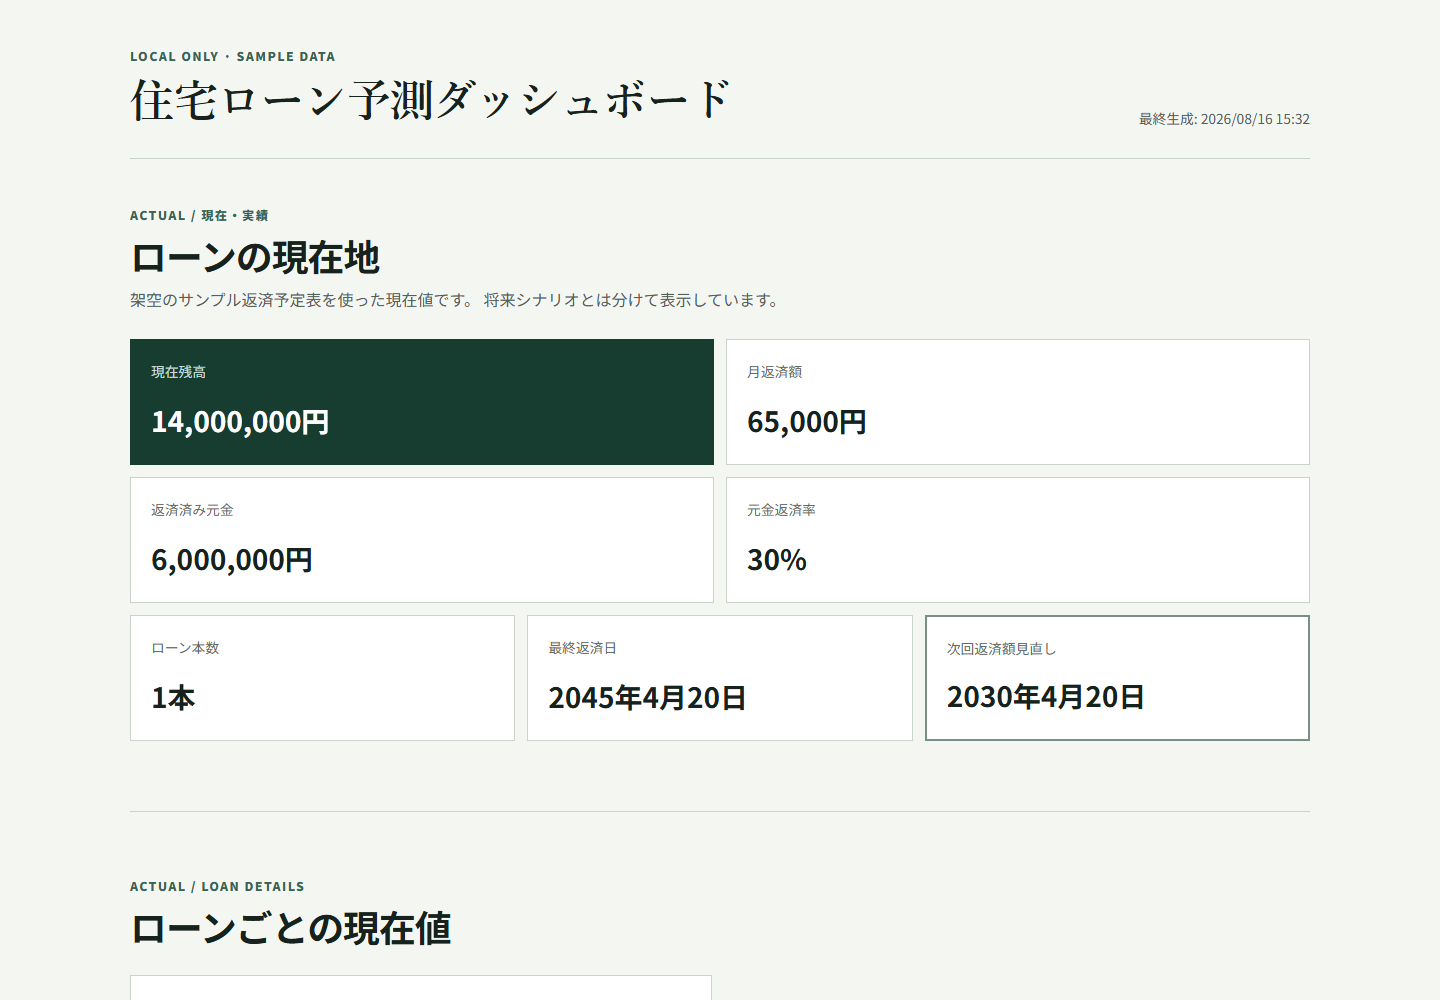
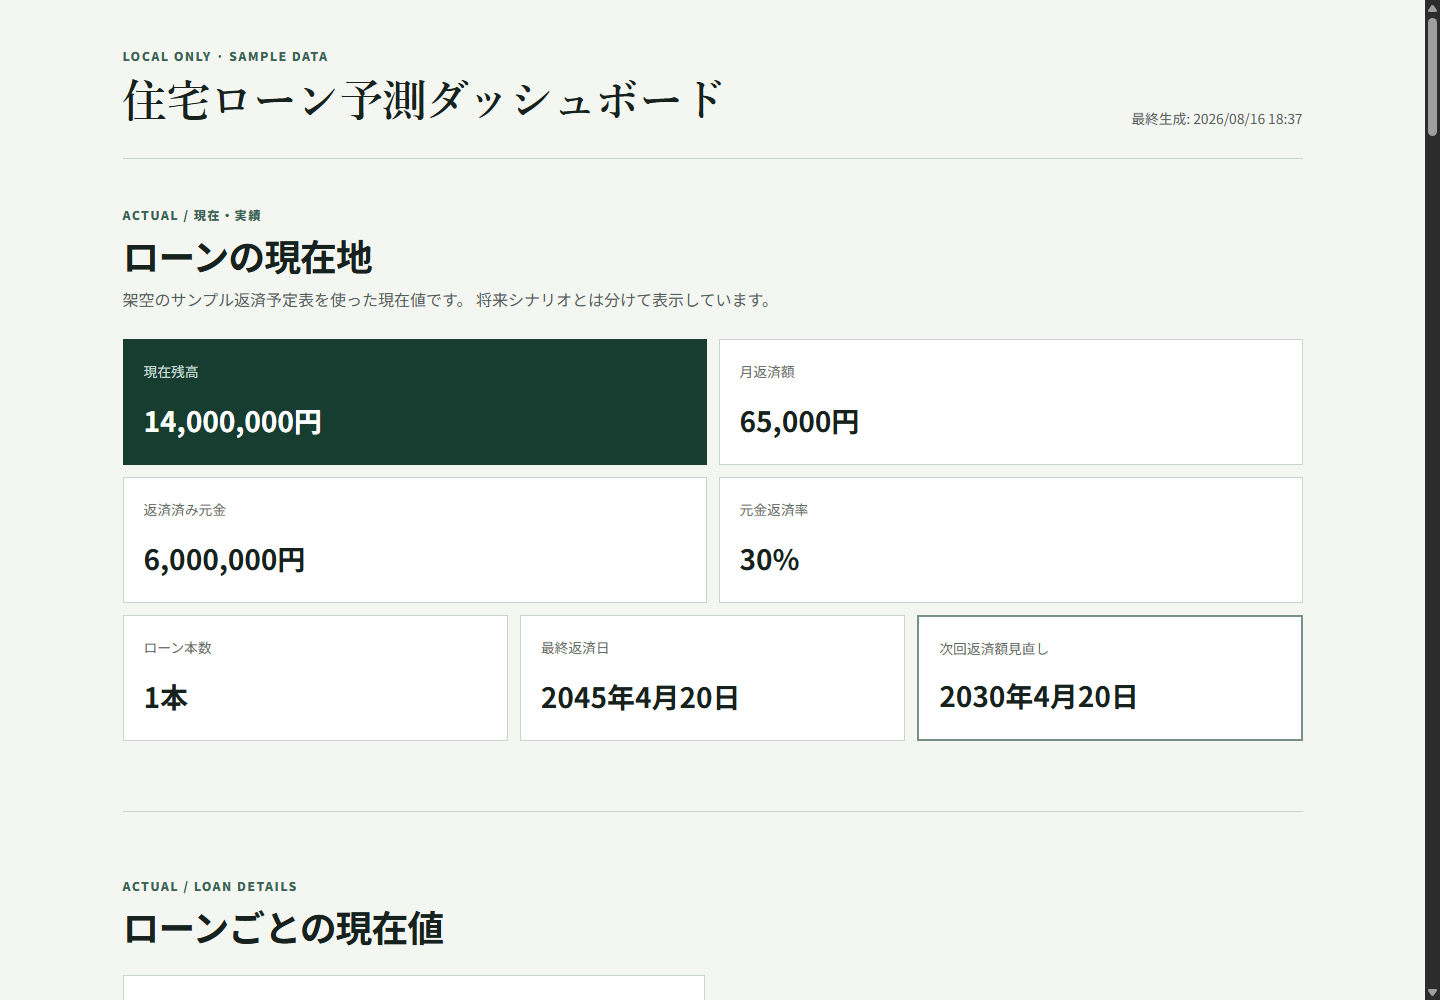
段階的な金利シナリオを公開サンプルへ反映

diff --git a/dashboard/src/test/App.test.tsx b/dashboard/src/test/App.test.tsx
@@ -49,15 +49,49 @@ describe("住宅ローン予測ダッシュボード", () => {
     expect(screen.getByText("現在の金利が続く機械的ケース")).toBeInTheDocument();
     expect(screen.getAllByText("将来金利についての手動仮定")).toHaveLength(3);
     expect(screen.getByText("現在金利1.8%を継続")).toBeInTheDocument();
-    expect(screen.getByText("現在金利 → 2027年1月1日から2%（以後継続）")).toBeInTheDocument();
-    expect(screen.getByText("現在金利 → 2027年1月1日から3%（以後継続）")).toBeInTheDocument();
-    expect(screen.getByText("現在金利 → 2027年1月1日から5%（以後継続）")).toBeInTheDocument();
+    expect(screen.getByText("現在金利 → 2027年1月1日の次回返済から2%（以後継続）")).toBeInTheDocument();
+    expect(screen.getByText("現在金利 → 2027年1月1日の次回返済から3%（以後継続）")).toBeInTheDocument();
+    expect(screen.getByText("現在金利 → 2027年1月1日の次回返済から5%（以後継続）")).toBeInTheDocument();
     expect(screen.getByText("Golden tests validated")).toBeInTheDocument();
     expect(screen.getByText("4か月検証済み")).toBeInTheDocument();
     expect(await screen.findByRole("table", { name: "一定金利ごとの返済リスク" })).toBeInTheDocument();
     expect(screen.getAllByText("未検証仮定あり").length).toBeGreaterThan(0);
     expect(screen.getByText(/モデル仕様やデータ品質に関する表示/)).toBeInTheDocument();
     expect(screen.getByText(/将来シナリオの正確さや金利予測を意味しません/)).toBeInTheDocument();
+  });
+
+  it("短期プライム連動シナリオはローンごとの貸出金利を表示する", async () => {
+    const secondLoan = {
+      ...forecast.loans[0],
+      id: "second-loan",
+      display_name: "Second variable-rate loan",
+      rate_model: { ...forecast.loans[0].rate_model, spread: -0.0049 },
+    };
+    const document: ForecastDocument = {
+      ...forecast,
+      loans: [...forecast.loans, secondLoan],
+      scenarios: forecast.scenarios.map((scenario) => {
+        if (scenario.id !== "base" && scenario.id !== "stress") return scenario;
+        const finalRate = scenario.id === "stress" ? 0.03475 : 0.03525;
+        return {
+          ...scenario,
+          type: "short_prime_path",
+          rates: [
+            { effective_date: "2036-01-10", annual_rate: 0.03125 },
+            { effective_date: "2037-01-10", annual_rate: 0.03225 },
+            { effective_date: "2038-01-10", annual_rate: 0.03325 },
+            { effective_date: "2039-01-10", annual_rate: 0.03425 },
+            { effective_date: "2040-01-10", annual_rate: finalRate },
+          ],
+          terminal_rate: finalRate,
+        };
+      }),
+    };
+    mockForecast(document);
+    render(<App />);
+
+    expect(await screen.findByText("現在金利 → 2036年から毎年0.1ポイントずつ上昇（各年1月10日の次回返済から適用） → 2040年にexample-loan 3.025% / second-loan 3.035%（以後継続）")).toBeInTheDocument();
+    expect(screen.getByText("現在金利 → 2036年から毎年0.1ポイントずつ上昇（各年1月10日の次回返済から適用） → 2040年にexample-loan 2.975% / second-loan 2.985%で頭打ち")).toBeInTheDocument();
   });
 
   it("表示対象とグラフの代替表をキーボード操作可能なUIで切り替える", async () => {

diff --git a/dashboard/src/App.tsx b/dashboard/src/App.tsx
@@ -58,10 +58,35 @@ function rateAssumption(scenario: Scenario, data: ForecastDocument, scope: strin
   }
 
   const points = scenario.rates ?? [];
-  const assumptions = ["現在金利", ...points.map((point) => `${formatDate(point.effective_date)}から${formatRate(point.annual_rate)}`)];
+  const loans = scope === "combined" ? data.loans : data.loans.filter((loan) => loan.id === scope);
+  const formatScenarioRate = (annualRate: number) => {
+    if (scenario.type !== "short_prime_path") return formatRate(annualRate);
+    const rates = loans.map((loan) => `${scope === "combined" && loans.length > 1 ? `${loan.id} ` : ""}${formatRate(annualRate + loan.rate_model.spread)}`);
+    return rates.join(" / ");
+  };
+  if (points.length >= 4) {
+    const years = points.map((point) => Number(point.effective_date.slice(0, 4)));
+    const monthDays = points.map((point) => point.effective_date.slice(5));
+    const increments = points.slice(1).map((point, index) => point.annual_rate - points[index].annual_rate);
+    const step = increments[0];
+    const tolerance = 1e-9;
+    const annual = years.every((year, index) => index === 0 || year === years[index - 1] + 1)
+      && monthDays.every((monthDay) => monthDay === monthDays[0]);
+    const regularBeforeLast = increments.slice(0, -1).every((increment) => Math.abs(increment - step) < tolerance);
+    const lastIncrement = increments.at(-1) ?? step;
+    const capped = regularBeforeLast && lastIncrement > 0 && lastIncrement < step - tolerance;
+    const regular = increments.every((increment) => Math.abs(increment - step) < tolerance);
+    if (annual && step > 0 && (regular || capped)) {
+      const [, month, day] = points[0].effective_date.split("-").map(Number);
+      const finalRate = formatScenarioRate(scenario.terminal_rate ?? points.at(-1)!.annual_rate);
+      const ending = capped ? `${finalRate}で頭打ち` : `${finalRate}（以後継続）`;
+      return `現在金利 → ${years[0]}年から毎年${formatRate(step).replace("%", "ポイント")}ずつ上昇（各年${month}月${day}日の次回返済から適用） → ${years.at(-1)}年に${ending}`;
+    }
+  }
+  const assumptions = ["現在金利", ...points.map((point) => `${formatDate(point.effective_date)}の次回返済から${formatScenarioRate(point.annual_rate)}`)];
   const lastRate = points.at(-1)?.annual_rate;
   if (scenario.terminal_rate != null && scenario.terminal_rate !== lastRate) {
-    assumptions.push(`以後${formatRate(scenario.terminal_rate)}`);
+    assumptions.push(`以後${formatScenarioRate(scenario.terminal_rate)}`);
   } else if (points.length > 0) {
     assumptions[assumptions.length - 1] += "（以後継続）";
   }

diff --git a/dashboard/src/test/forecast-fixture.ts b/dashboard/src/test/forecast-fixture.ts
@@ -109,7 +109,9 @@ const scenarios: Scenario[] = scenarioMetadata.map(([id, label]) => ({
   id,
   label,
   type: id === "current" ? "constant_loan_rate" : "loan_rate_path",
-  description: `Artificial ${label} scenario`,
+  description: id === "current"
+    ? "現在金利が続く比較基準です。"
+    : `${label}の段階的な金利上昇を表すテスト用シナリオです。`,
   updated_at: "2026-08-15",
   verification_status: "scenario",
   ...(id === "current"

diff --git a/docs/data-setup-and-updates.md b/docs/data-setup-and-updates.md
@@ -143,6 +143,11 @@ my-loan:
 `verification_status: scenario` とします。Current / Base / Higher / Stressを用意するとdashboardの
 標準比較が分かりやすくなります。
 
+金利pathの変更日は利息計算に使う金利だけを変更します。月返済額は金利変更のたびには変わらず、
+loan YAMLの `repayment.payment_review.schedule.dates` に登録した見直し日だけで再計算されます。
+公開サンプルのBase / Higher / Stressはこの違いを確認できるよう、年次の段階的な金利pathと5年ごとの
+返済額見直しを組み合わせています。
+
 ### `sources.yaml`
 
 数値やルールの根拠を匿名化して記録します。最低1件を `type: actual` とし、返済予定表の取得日を
